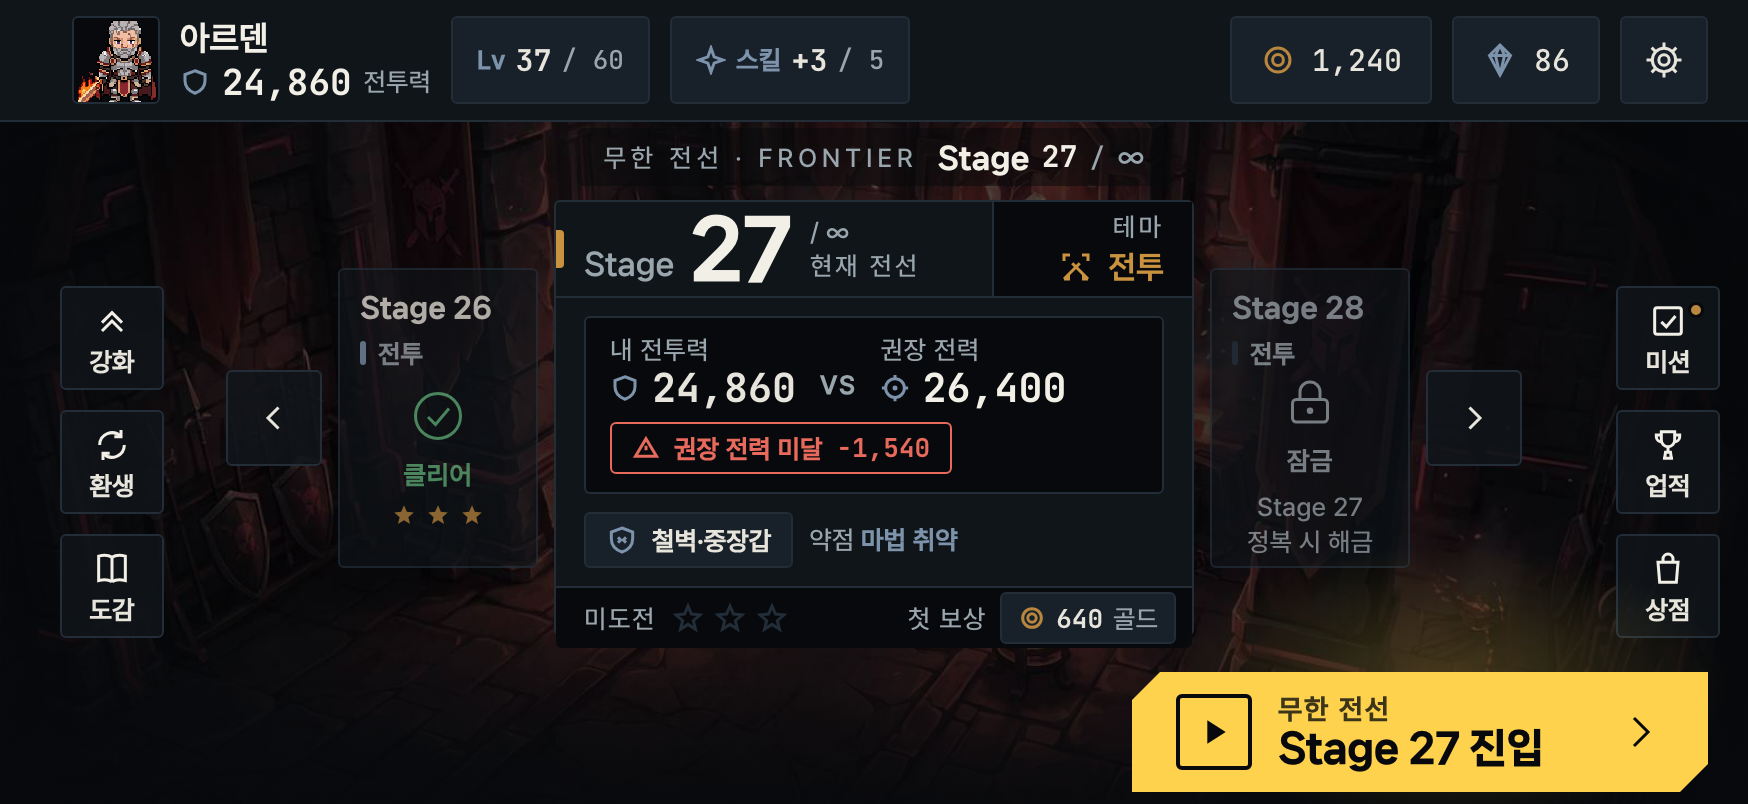
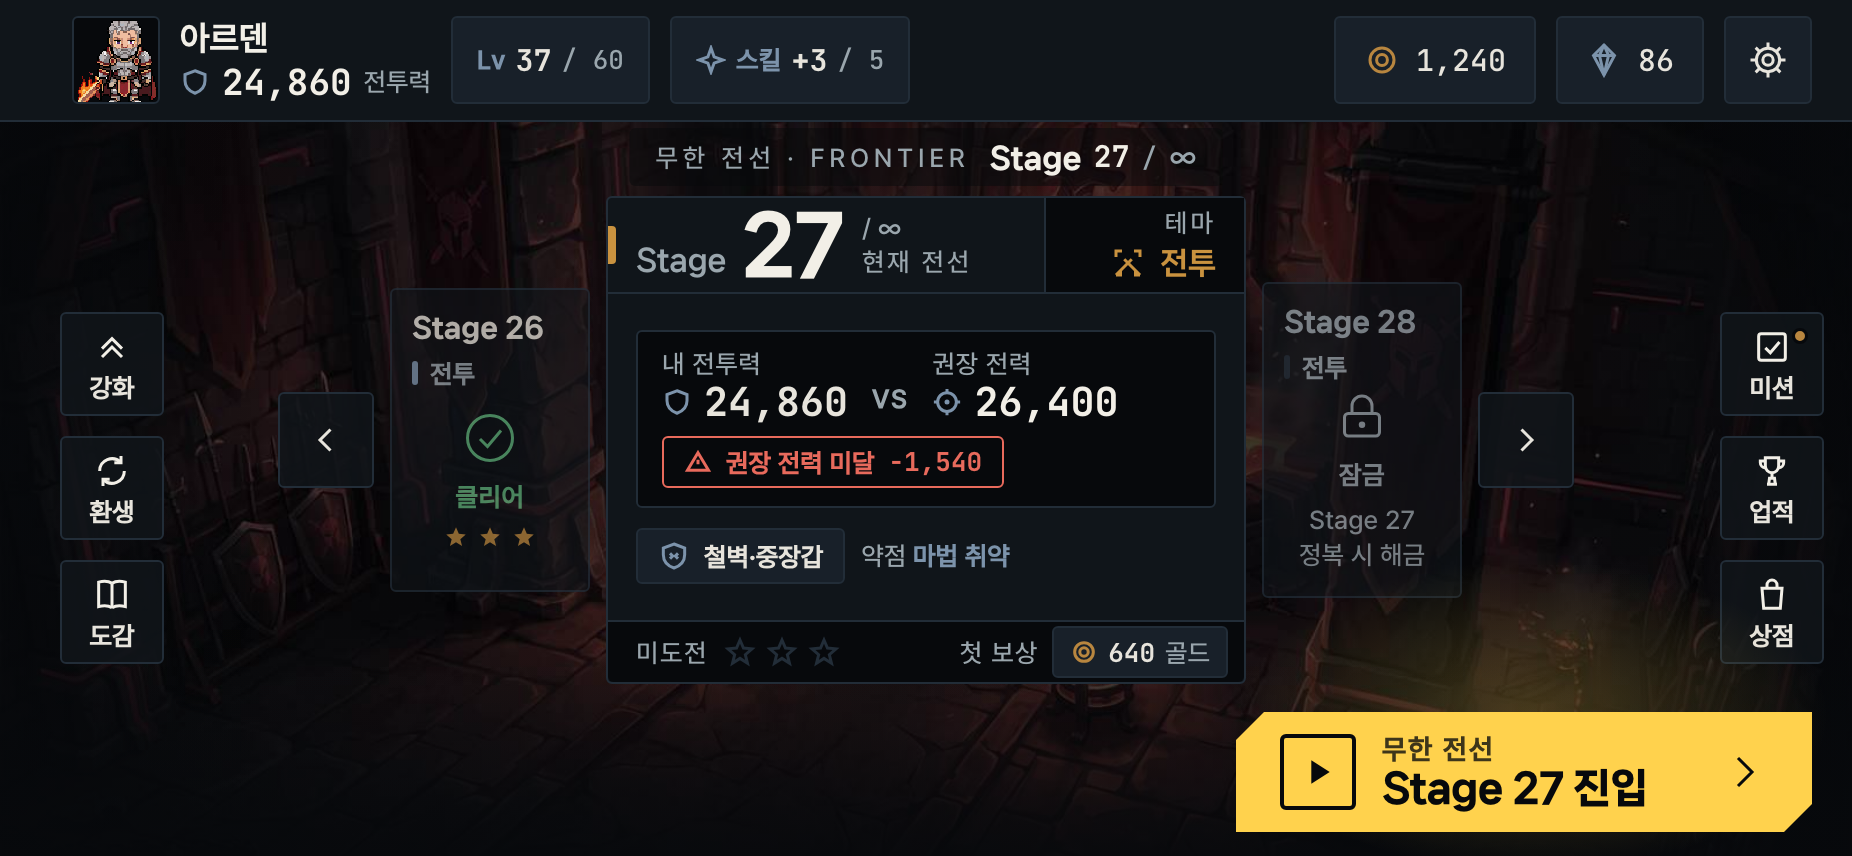
[mockup] MainHub v5 (926×428 = iPhone 12PM 논리·포커스카드 무클립)

diff --git a/mainhub-mockup.html b/mainhub-mockup.html
@@ -2,16 +2,33 @@
 <html lang="ko">
 <head>
 <meta charset="utf-8">
-<title>infinite-warfield — MainHub · device-native v4 (874×402 pt)</title>
+<title>infinite-warfield — MainHub · device-native v5 (926×428 pt)</title>
 <style>
 /* =====================================================================
-   infinite-warfield — MAIN HUB · DEVICE-NATIVE v4
+   infinite-warfield — MAIN HUB · DEVICE-NATIVE v5
    ui-artist · 2026-07-15
+   ---------------------------------------------------------------------
+   WHY v5 (캔버스 정합 · 디자인 재발명 없음):
+     참조 기기 확정 = iPhone 12 Pro Max (물리 2778×1284 @3x → 논리 926×428).
+     § .claude/rules/ui-scale-contract.md — 목업 캔버스 = Unity Ref = 기기 논리 pt,
+     세 숫자 동일. v4 는 874×402 로 저작돼 기준기기(926×428)와 어긋나 있었다.
+     v5 = v4 의 디자인·수정을 전부 계승하고 **캔버스만 926×428 로 정합**한다.
+       · pt 는 절대값 → 폰트 크기·터치 44·아이콘 크기·1px 헤어라인 전부 불변.
+       · 캔버스 +52w / +26h 만큼 **여백이 늘고**, 그 여유를 아래 두 곳에 쓴다:
+         (A) ★ 세로 +26 → FOCUS 카드가 402 밖으로 하단 클립되던 v4 UITK P0 잔여 해소.
+             v4 focus height 218(고정) → v5 **min-height 244 + carousel 중심 220** 으로
+             카드 상단 헤더(Stage 27 · 현재 전선 · 테마칩)부터 하단행(미도전 ☆☆☆ ·
+             첫 보상 골드칩)까지 **428 안에 무클립**. 프론티어↔카드 상단, 카드 하단↔CTA
+             양쪽에 클리어런스 확보(바닥/톱에 안 붙임).
+             카드 min-height(고정 height 아님) = UITK 자연 폰트높이(§폰트클립)로 내용이
+             더 커지면 카드가 구조적으로 따라 자라 재클립 원천 차단.
+         (B) 가로 +52 → 캐러셀은 중앙정렬·레일은 엣지앵커라 **양측 여백이 자동 분배**
+             (v4 side margin 113 → v5 139, 레일↔캐러셀 간극 31 → 57). 욱여넣기 0.
+       · 그 외 좌표(topbar/frontier/rail/CTA)는 새 엣지·중심에 맞춰 산술 재배치만.
    ---------------------------------------------------------------------
    WHY v4: 창작자 피드백 1곳만(v3 나머지 전부 유지) — focus 카드 하단 "첫 보상" 칩.
      · 축소: rv 15→13pt(≥13 유지)로 칩 자연높이↓(폰트클립 계약: 칩 높이는 최대 텍스트가
-       구동 — 15px→~29pt UITK 자연높이라 min-height 만 줄이면 목업이 UITK 를 과소표현).
-       min-height 28→26(=13px→26pt 정직 하한)·padding 0 10→0 8·icon 16→14·gap↓.
+       구동). min-height 28→26(=13px→26pt 정직 하한)·padding 0 10→0 8·icon 16→14·gap↓.
        → 좌 "미도전 ☆☆☆"(13pt·라인 별)과 시각무게 균형.
      · 우측 정렬: f-foot 우 padding 14→8 로 칩을 카드 우측 엣지 쪽으로 밀착.
    ---------------------------------------------------------------------
@@ -22,27 +39,9 @@
    ---------------------------------------------------------------------
    WHY v2: v1 을 두 독립검증(ui-critic 적대비평 + ux-reviewer) 펀치리스트로 교정.
    새로 안 그리고 v1 을 고침. 유지=크림골드 단일비컨·정보위계·상태분기·매트플랫 v3·전장 dim.
-
-   변경(펀치리스트 대응):
-   1) 상단바 통일 — Lv·스킬·재화·톱니 = 공통 44pt·단일 수직중심 스냅. Lv 솔리드
-      브론즈 채움 해제(Lv·스킬 둘 다 다크 raise+보더). 톱니 히트 44.
-   2) 엘리베이션 규율 — 오프토큰 #0A0E12 제거. 램프 4단만(base/panel/raise/line).
-      리세스 웰 = base(패널 한 단계 아래). 칩 깊이방향 전화면 단일(칩=raise).
-   3) 코너틱·브론즈 예산 — 코너틱 세트 통일(4코너 동일 색·두께=slate, 냉 HUD 오너먼트,
-      warm 예산 밖). 상단좌 브론즈 중복(틱 warm→slate) 해소, spine(tc)만 warm 마커.
-      브론즈 풀강도 6군데(badge·spine·theme·cleared별·reward코인·wallet코인).
-   4) 우측 플랭킹·페이저 — peek 딤 대칭(둘 다 .74, 잠금 딤은 콘텐츠색이 담당).
-      nav 화살표 48pt(≥48). 카드 lift 로 우하단 CTA 뭉침 완화.
-   5) 아이콘 — 라인 기본 통일. fill 예약=①CTA play(단일 액션 솔리드) ②별 상태
-      (채움=획득/윤곽=미획득) ③아이콘 내부 미세 디테일 점. 스킬 스파클 fill→line.
-      전 아이콘 stroke 1.5 non-scaling(동일 스트로크). 별=SVG stroke(폰트글리프 0).
-   6) 13pt 하한+대비 — badge 12→13. 분모(/60·/5) opacity 트릭 제거→dim 풀불투명(≥4.5).
-      FRONTIER 브레드크럼 뒤 미세 스크림(raw 전장 저대비 해소). CTA 캡션 14·대비↑.
-   7) 세로 리듬 — focus 카드 230→218, carousel lift → 카드 하단↔CTA 클리어런스 확보
-      (바닥에 안 붙임). 402pt 에 안 욱여넣음.
-   8) 세이프에어리어 — 배경 full-bleed. 액션(topbar·rail·carousel·cta)=엣지앵커
-      오버레이 컨테이너 + flex 자식(절대좌표 자식배치 금지). safe-area 인셋은
-      앵커 컨테이너 패딩으로(--safe-l = leading-edge 노치). ↓ [SAFE] 주석 참조.
+   변경 요지(펀치리스트): 상단바 통일(공통 44pt 단일 베이스라인)·엘리베이션 램프 4단·
+     코너틱/브론즈 예산·우측 플랭킹 대칭·아이콘 라인기본(fill 예약)·13pt 하한+대비·세로 리듬·
+     세이프에어리어(엣지앵커+flex).
 
    AESTHETIC LOCK (art-bible v3 SoT · '긴장/Tactical Field Ops'):
      base #07090C · 매트 플랫 · 1px 헤어라인 #222D38 · radius 3 · 깊이=명도 램프 ·
@@ -52,6 +51,7 @@
 
    PT FLOORS (§ui-scale-contract): 본문 ≥15 · 라벨/부제 ≥13 · 터치 ≥44 · 컨트롤:텍스트 ≥2.4.
    폰트-클립 금지: 텍스트 담는 요소엔 고정 height 금지 → min-height + padding.
+     실측 하한: 13px→26 · 14px→27 · 15px→29 (그 외 ceil(fontSize×2.0)).
    ===================================================================== */
 @font-face{font-family:'NanumSquareNeo';font-weight:800;font-style:normal;src:url('_fonts/NanumSquareNeoBL.woff2') format('woff2');font-display:block;}
 @font-face{font-family:'NanumSquareNeo';font-weight:700;font-style:normal;src:url('_fonts/NanumSquareNeoEB.woff2') format('woff2');font-display:block;}
@@ -73,10 +73,10 @@
   --safe-l:16px; /* leading-edge inset(노치/라운드코너) · 1px=1pt */
 }
 *{box-sizing:border-box;margin:0;padding:0;}
-/* ★ 캔버스 = 874×402 pt. 1px = 1pt = Unity USS px = 기기 pt. */
-html,body{width:874px;height:402px;overflow:hidden;background:#000;}
+/* ★ 캔버스 = 926×428 pt (iPhone 12 Pro Max 논리 @3x). 1px = 1pt = Unity USS px = 기기 pt. */
+html,body{width:926px;height:428px;overflow:hidden;background:#000;}
 body{font-family:var(--f-body);-webkit-font-smoothing:antialiased;text-rendering:optimizeLegibility;}
-.frame{position:relative;width:874px;height:402px;overflow:hidden;color:var(--body);background:var(--base);}
+.frame{position:relative;width:926px;height:428px;overflow:hidden;color:var(--body);background:var(--base);}
 .mono{font-family:var(--f-mono);font-weight:700;font-feature-settings:'tnum' 1;letter-spacing:0;}
 .mono5{font-weight:500;}
 .inf{font-family:var(--f-body);font-weight:500;}
@@ -106,14 +106,14 @@ body{font-family:var(--f-body);-webkit-font-smoothing:antialiased;text-rendering
   background:radial-gradient(124% 98% at 50% 44%,transparent 32%,rgba(7,9,12,0.62) 100%);}
 .vig-top{position:absolute;left:0;right:0;top:0;height:64px;pointer-events:none;
   background:linear-gradient(to bottom,rgba(7,9,12,0.86),transparent);}
-.vig-bot{position:absolute;left:0;right:0;bottom:0;height:96px;pointer-events:none;
+.vig-bot{position:absolute;left:0;right:0;bottom:0;height:100px;pointer-events:none;
   background:linear-gradient(to top,rgba(7,9,12,0.84),transparent);}
-.vig-l{position:absolute;left:0;top:0;bottom:0;width:128px;pointer-events:none;
+.vig-l{position:absolute;left:0;top:0;bottom:0;width:136px;pointer-events:none;
   background:linear-gradient(to right,rgba(7,9,12,0.70),transparent);}
-.vig-r{position:absolute;right:0;top:0;bottom:0;width:128px;pointer-events:none;
+.vig-r{position:absolute;right:0;top:0;bottom:0;width:136px;pointer-events:none;
   background:linear-gradient(to left,rgba(7,9,12,0.70),transparent);}
-/* 중앙 포커스 암막 — 캐러셀 판독 확보 [BAKE 스프라이트] */
-.vig-focus{position:absolute;left:50%;top:210px;width:600px;height:320px;transform:translate(-50%,-50%);
+/* 중앙 포커스 암막 — 캐러셀 판독 확보 [BAKE 스프라이트] · v5: 카드 중심 220 정합 */
+.vig-focus{position:absolute;left:50%;top:220px;width:640px;height:344px;transform:translate(-50%,-50%);
   pointer-events:none;background:radial-gradient(closest-side,rgba(7,9,12,0.56),transparent 80%);}
 
 /* ===================== TOPBAR (헤더 · 풀패널 미니바) ===================== */
@@ -157,8 +157,9 @@ body{font-family:var(--f-body);-webkit-font-smoothing:antialiased;text-rendering
 .gear .ico{width:20px;height:20px;}
 
 /* ===================== SIDE RAILS (런처) ===================== */
-/* [SAFE] 엣지앵커 세로 오버레이. 내부 = flex column. rgba near-opaque = 5테마 배경무관 대비. */
-.rail{position:absolute;top:calc(60px + (402px - 60px)/2);transform:translateY(-50%);z-index:6;
+/* [SAFE] 엣지앵커 세로 오버레이. 내부 = flex column. rgba near-opaque = 5테마 배경무관 대비.
+   v5: 세로중심 = topbar 아래 영역(428) 중앙으로 재계산. */
+.rail{position:absolute;top:calc(60px + (428px - 60px)/2);transform:translateY(-50%);z-index:6;
   display:flex;flex-direction:column;align-items:center;gap:10px;}
 .rail.left{left:calc(14px + var(--safe-l));}
 .rail.right{right:14px;}
@@ -186,8 +187,9 @@ body{font-family:var(--f-body);-webkit-font-smoothing:antialiased;text-rendering
 .frontier .fv .inf{font-size:15px;color:var(--dim);line-height:1;}
 
 /* ===================== CENTER — STAGE SELECT CAROUSEL ===================== */
-/* [SAFE] 엣지앵커 중앙 오버레이. 내부 = flex row(nav·peek·focus·peek·nav) gap 8 대칭. */
-.carousel{position:absolute;top:209px;left:50%;transform:translate(-50%,-50%);z-index:6;
+/* [SAFE] 엣지앵커 중앙 오버레이. 내부 = flex row(nav·peek·focus·peek·nav) gap 8 대칭.
+   v5: 중심 209→220 (세로 +26 여유 활용 — 카드 상/하 클리어런스 확보). */
+.carousel{position:absolute;top:220px;left:50%;transform:translate(-50%,-50%);z-index:6;
   display:flex;align-items:center;justify-content:center;gap:8px;}
 /* nav chevrons [터치 48 ≥48] · 카드 엣지에 gap 8 로 일관 앵커(양측 동일). */
 .nav{width:48px;height:48px;flex:none;background:rgba(16,21,26,0.86);border:1px solid var(--line);border-radius:3px;
@@ -195,7 +197,8 @@ body{font-family:var(--f-body);-webkit-font-smoothing:antialiased;text-rendering
 .nav .ico{width:18px;height:18px;}
 
 /* ---- PEEK CARD (인접 스테이지 · 작게·후퇴 · 딤 대칭) ---- */
-.peek{position:relative;width:100px;height:150px;background:rgba(16,21,26,0.80);border:1px solid var(--line);
+/* v5: 고정 height 150 → min-height 152 (세로 여유 소폭 반영 + 폰트클립 안전: 내용이 커지면 자람). */
+.peek{position:relative;width:100px;min-height:152px;background:rgba(16,21,26,0.80);border:1px solid var(--line);
   border-radius:3px;padding:12px 10px;display:flex;flex-direction:column;overflow:hidden;}
 .peek .pz{font-family:var(--f-disp);font-weight:800;font-size:14px;color:var(--body);letter-spacing:-.01em;line-height:1;}
 .peek .pt{display:flex;align-items:center;gap:6px;margin-top:6px;}
@@ -219,8 +222,11 @@ body{font-family:var(--f-body);-webkit-font-smoothing:antialiased;text-rendering
 .peek.locked .pstate-ico{color:var(--dim);}
 .peek.locked .pstate-lbl{color:var(--dim);}
 
-/* ---- FOCUS CARD (프론티어 스테이지 · 풀 정보 · 초점 앵커 3.2× 폭 · 218pt) ---- */
-.focus{position:relative;width:320px;height:218px;background:var(--panel);border:1px solid var(--line);
+/* ---- FOCUS CARD (프론티어 스테이지 · 풀 정보 · 초점 앵커 3.2× 폭) ----
+   v5: 고정 height 218 → min-height 244. 세로 +26 여유를 카드에 투입해 헤더~하단행
+   전부 428 안에 무클립. min-height 라 UITK 자연 폰트높이(§폰트클립)로 내용이 더 커지면
+   카드가 구조적으로 따라 자라 재클립 원천 차단(고정 height 회귀 금지). */
+.focus{position:relative;width:320px;min-height:244px;background:var(--panel);border:1px solid var(--line);
   border-radius:3px;display:flex;flex-direction:column;}
 /* v3: HUD 코너 틱 4개 전부 삭제(창작자 지시) — 카드는 1px 헤어라인 프레임 + 좌측 spine(tc) 단독 마커. */
 /* header row (2단: zone № + 테마 세그먼트) */
@@ -241,8 +247,8 @@ body{font-family:var(--f-body);-webkit-font-smoothing:antialiased;text-rendering
 .f-theme .th-row{display:flex;align-items:center;gap:7px;}
 .f-theme .th-ico{width:18px;height:18px;color:var(--tc);}
 .f-theme .th-lbl{font-family:var(--f-disp);font-weight:700;font-size:15px;color:var(--tc);letter-spacing:-.01em;line-height:1;}
-/* body */
-.f-body{flex:1;padding:9px 14px;display:flex;flex-direction:column;justify-content:center;gap:9px;}
+/* body · v5: 세로 여유로 padding/gap 소폭 숨통(9→11 · gap 9→10) — 카드가 커진 만큼 내부도 리듬 확보 */
+.f-body{flex:1;padding:11px 14px;display:flex;flex-direction:column;justify-content:center;gap:10px;}
 /* power comparison — 리세스 웰(base = 패널 한 단계 아래) */
 .pwr{background:var(--base);border:1px solid var(--line);border-radius:3px;padding:9px 12px;
   display:flex;flex-direction:column;gap:7px;}
@@ -287,11 +293,11 @@ body{font-family:var(--f-body);-webkit-font-smoothing:antialiased;text-rendering
 
 /* ===================== CTA (우하단 지배 비컨) ===================== */
 /* [SAFE] 엣지앵커 우하단 오버레이. [BAKE] 뒤 골드 글로우 헤일로 = radial 스프라이트(CSS glow 아님·주스 P7). */
-.cta-glow{position:absolute;right:-30px;bottom:-30px;width:360px;height:180px;z-index:6;pointer-events:none;
+.cta-glow{position:absolute;right:-30px;bottom:-30px;width:380px;height:200px;z-index:6;pointer-events:none;
   background:radial-gradient(closest-side,rgba(255,210,77,0.24),transparent 78%);}
 /* CTA = 단일 최고 채도/엘리베이션 비컨. 앵귤러 컷(pill 금지). [BAKE] clip-path → 9슬라이스 컷코너 스프라이트. */
-/* v3: width 264→288 + 내부 padding 0 22(텍스트가 엣지에 안 붙게 확보). */
-.cta{position:absolute;right:20px;bottom:6px;z-index:7;width:288px;min-height:60px;background:var(--cta);color:var(--cta-ink);
+/* v5: bottom 6→12 (세로 여유로 바닥서 살짝 띄움 · 카드 하단과 클리어런스). */
+.cta{position:absolute;right:20px;bottom:12px;z-index:7;width:288px;min-height:60px;background:var(--cta);color:var(--cta-ink);
   clip-path:polygon(14px 0,100% 0,100% calc(100% - 14px),calc(100% - 14px) 100%,0 100%,0 14px);
   display:flex;align-items:center;gap:13px;padding:0 22px;}
 .cta .play{width:38px;height:38px;border:2px solid var(--cta-ink);border-radius:3px;display:flex;